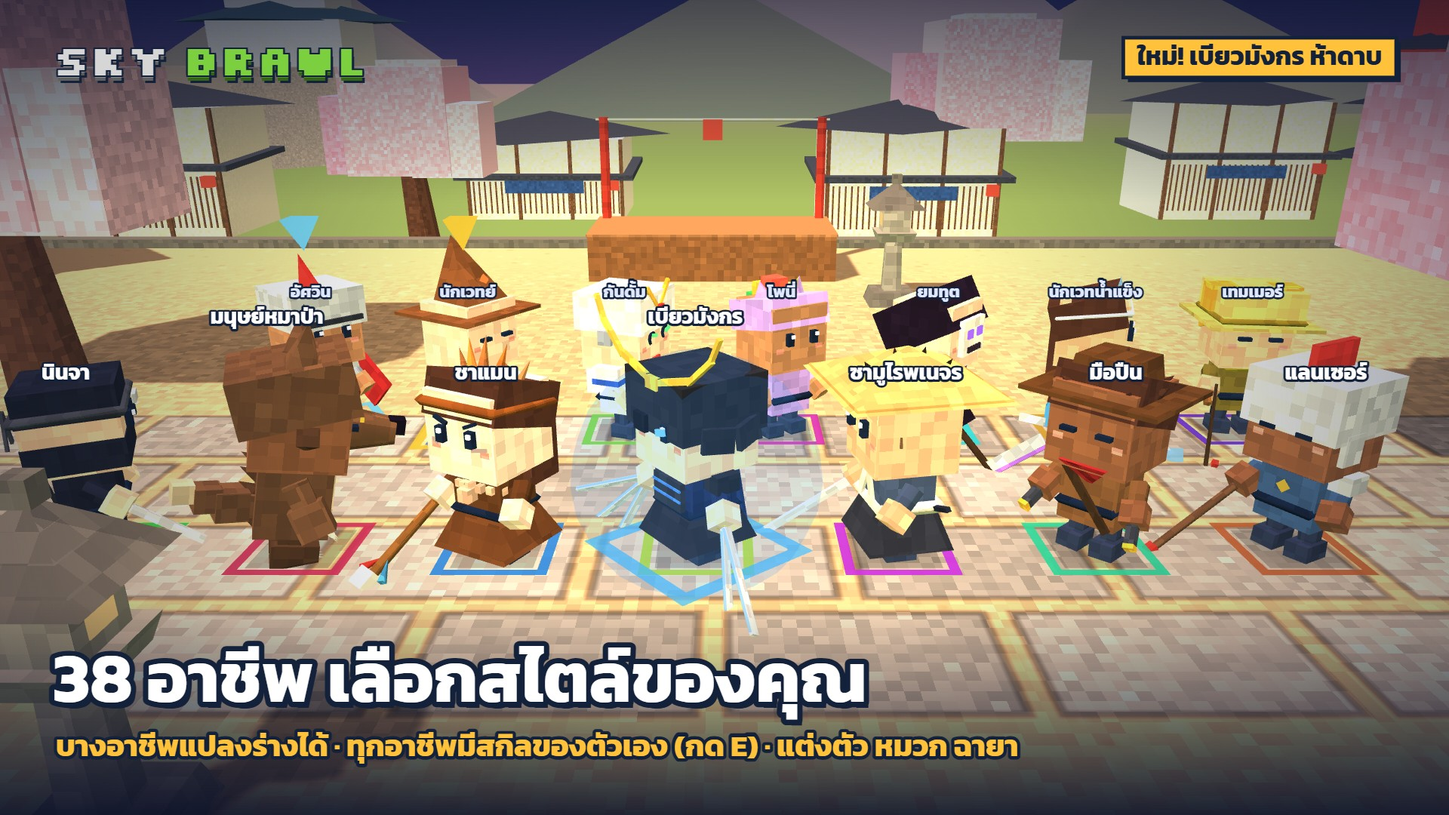
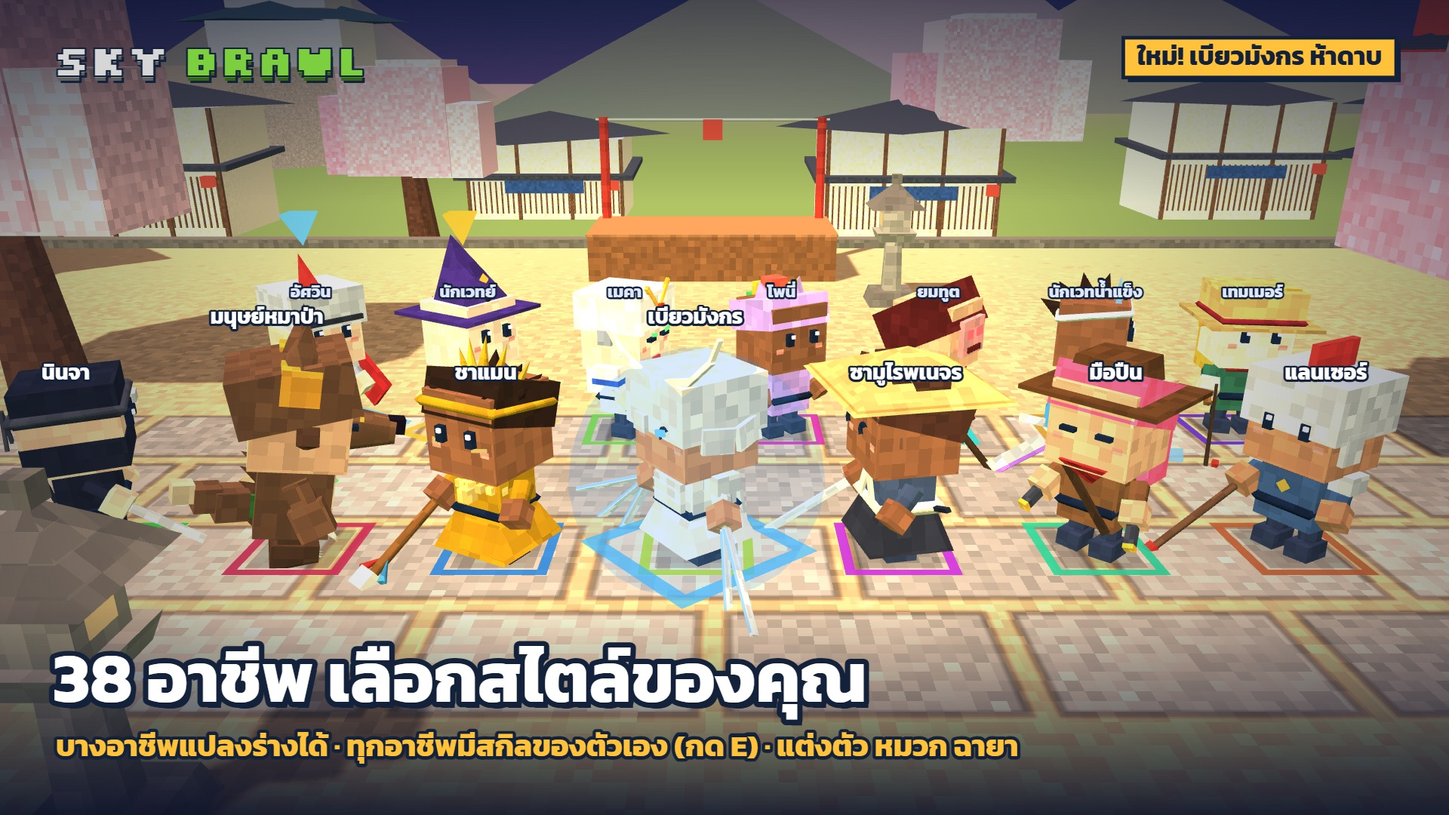
1.10.1: ข้อมูลลิขสิทธิ์และเครดิต + เปลี่ยนชื่ออาชีพกันดั้มเป็นเมคา

Changed region(s): [[0.1562, 0.2444, 0.9688, 0.825], [0.1875, 0.2444, 0.2188, 0.3056]]

diff --git a/index.html b/index.html
@@ -2,6 +2,7 @@
 <html lang="th">
 <head>
 <meta charset="utf-8">
+<meta name="copyright" content="© 2026 SORADAD. All rights reserved.">
 <meta name="viewport" content="width=device-width,initial-scale=1,maximum-scale=1,user-scalable=no,viewport-fit=cover">
 <meta name="theme-color" content="#5a8f3a">
 <meta name="description" content="Sky Brawl เกมต่อสู้ 3 มิติโลกบล็อกบนดาดฟ้าเรือไททานิก ตะลุมบอนกับบอทได้สูงสุด 124 คน หรือชวนเพื่อนเล่นออนไลน์ได้สูงสุด 64 คน">
@@ -21,7 +22,7 @@
 <link rel="preconnect" href="https://fonts.googleapis.com">
 <link rel="preconnect" href="https://fonts.gstatic.com" crossorigin>
 <link rel="stylesheet" href="https://fonts.googleapis.com/css2?family=Dela+Gothic+One&family=Kanit:wght@400;500;700&family=Silkscreen:wght@400;700&display=swap">
-<link rel="stylesheet" href="style.css?v=1.10.0">
+<link rel="stylesheet" href="style.css?v=1.10.1">
 
 </head>
 <body>
@@ -181,6 +182,13 @@
       </div>
       <p class="note" style="margin-top:10px">ปรับมุมกล้องด้วย <kbd>-</kbd> <kbd>=</kbd> ล้อเมาส์ หรือปุ่ม "กล้อง" ระหว่างเล่น · ถ้าเล่นคนเดียวหรือออนไลน์ ใช้ลูกศรกับ <kbd>J</kbd> <kbd>K</kbd> <kbd>L</kbd> <kbd>U</kbd> <kbd>I</kbd> <kbd>O</kbd> แทนได้ · <kbd>X</kbd> ดู hitbox · <kbd>T</kbd> ให้บอทเล่นแทนผู้เล่น 1 (ผู้เล่น 2 ใช้ <kbd>P</kbd> หรือ <kbd>Num5</kbd>) · <kbd>Esc</kbd> เมนู · มือถือใช้จอยกับปุ่มบนจอ</p>
     </details>
+    <details class="keys-d legal">
+      <summary>ลิขสิทธิ์และเครดิต</summary>
+      <p><b>Sky Brawl © 2026 SORADAD สงวนลิขสิทธิ์</b><br>เล่นฟรี แชร์ลิงก์ ถ่ายภาพ ทำคลิป สตรีมได้เลย · ห้ามคัดลอกไปเปิดเว็บเอง ดัดแปลงแล้วเผยแพร่ หรือใช้เชิงพาณิชย์โดยไม่ได้รับอนุญาต</p>
+      <p><b>ไลบรารีและฟอนต์:</b> three.js · PeerJS · qrcode-generator · supabase-js (MIT) · ฟอนต์ Kanit · Dela Gothic One · Silkscreen (SIL OFL 1.1) · เสียงและเพลงสร้างจากโค้ดทั้งหมด</p>
+      <p class="note">เกมแฟนเมดที่ได้แรงบันดาลใจจาก GetAmped และการ์ตูน/อนิเมะที่ผู้สร้างชอบ (เช่น วานรยักษ์ หุ่นยนต์ตาเดียวสีแดง) ไม่มีความเกี่ยวข้องหรือได้รับอนุญาตจากเจ้าของลิขสิทธิ์เหล่านั้น ชื่อและเครื่องหมายการค้าเป็นของเจ้าของแต่ละราย · เจ้าของลิขสิทธิ์ที่ต้องการให้แก้ไข แจ้งได้ที่ <a href="https://github.com/Sky-Brawl/sky-brawl.github.io/issues" target="_blank" rel="noopener">GitHub</a> · <a href="https://github.com/Sky-Brawl/sky-brawl.github.io/blob/main/LICENSE.md" target="_blank" rel="noopener">อ่านฉบับเต็ม</a></p>
+    </details>
+    <p class="copy">© 2026 SORADAD · Sky Brawl สงวนลิขสิทธิ์</p>
   </div>
 </div>
 
@@ -369,55 +377,55 @@
 <script src="https://cdnjs.cloudflare.com/ajax/libs/qrcode-generator/1.4.4/qrcode.min.js"></script>
 <script src="https://cdn.jsdelivr.net/npm/@supabase/supabase-js@2.45.4/dist/umd/supabase.min.js"></script>
 <!-- Settings you can tweak without touching this file: skill cooldowns/power, classes on/off -->
-<script src="config.js?v=1.10.0"></script>
+<script src="config.js?v=1.10.1"></script>
 <!-- The game: these files share one scope and must stay in this order (see js/README.md) -->
-<script src="js/voxel.js?v=1.10.0"></script>
-<script src="js/core.js?v=1.10.0"></script>
-<script src="js/moves.js?v=1.10.0"></script>
-<script src="js/world.js?v=1.10.0"></script>
-<script src="js/stages/temple-siam.js?v=1.10.0"></script>
-<script src="js/stages/gvg.js?v=1.10.0"></script>
-<script src="js/stages/halloween.js?v=1.10.0"></script>
-<script src="js/stages/christmas.js?v=1.10.0"></script>
-<script src="js/stages/ice.js?v=1.10.0"></script>
-<script src="js/stages/hospital.js?v=1.10.0"></script>
-<script src="js/stages/japan.js?v=1.10.0"></script>
-<script src="js/stages/skyisle.js?v=1.10.0"></script>
-<script src="js/stages/volcano.js?v=1.10.0"></script>
-<script src="js/stages/registry.js?v=1.10.0"></script>
-<script src="js/stages/cards.js?v=1.10.0"></script>
-<script src="js/classes.js?v=1.10.0"></script>
-<script src="js/config-apply.js?v=1.10.0"></script>
-<script src="js/looks.js?v=1.10.0"></script>
-<script src="js/forms.js?v=1.10.0"></script>
-<script src="js/summons.js?v=1.10.0"></script>
-<script src="js/fighter-model.js?v=1.10.0"></script>
-<script src="js/fx.js?v=1.10.0"></script>
-<script src="js/state.js?v=1.10.0"></script>
-<script src="js/input.js?v=1.10.0"></script>
-<script src="js/bots.js?v=1.10.0"></script>
-<script src="js/combat.js?v=1.10.0"></script>
-<script src="js/skills.js?v=1.10.0"></script>
-<script src="js/items.js?v=1.10.0"></script>
-<script src="js/projectiles.js?v=1.10.0"></script>
-<script src="js/powerups.js?v=1.10.0"></script>
-<script src="js/weapons.js?v=1.10.0"></script>
-<script src="js/modes.js?v=1.10.0"></script>
-<script src="js/sim.js?v=1.10.0"></script>
-<script src="js/render.js?v=1.10.0"></script>
-<script src="js/hud.js?v=1.10.0"></script>
-<script src="js/emotes.js?v=1.10.0"></script>
-<script src="js/chat.js?v=1.10.0"></script>
-<script src="js/chatbot.js?v=1.10.0"></script>
-<script src="js/flow.js?v=1.10.0"></script>
-<script src="js/online.js?v=1.10.0"></script>
-<script src="js/account.js?v=1.10.0"></script>
-<script src="js/relay.js?v=1.10.0"></script>
-<script src="js/online-ui.js?v=1.10.0"></script>
-<script src="js/customize.js?v=1.10.0"></script>
-<script src="js/tutorial.js?v=1.10.0"></script>
-<script src="js/settings.js?v=1.10.0"></script>
-<script src="js/touch.js?v=1.10.0"></script>
-<script src="js/main.js?v=1.10.0"></script>
+<script src="js/voxel.js?v=1.10.1"></script>
+<script src="js/core.js?v=1.10.1"></script>
+<script src="js/moves.js?v=1.10.1"></script>
+<script src="js/world.js?v=1.10.1"></script>
+<script src="js/stages/temple-siam.js?v=1.10.1"></script>
+<script src="js/stages/gvg.js?v=1.10.1"></script>
+<script src="js/stages/halloween.js?v=1.10.1"></script>
+<script src="js/stages/christmas.js?v=1.10.1"></script>
+<script src="js/stages/ice.js?v=1.10.1"></script>
+<script src="js/stages/hospital.js?v=1.10.1"></script>
+<script src="js/stages/japan.js?v=1.10.1"></script>
+<script src="js/stages/skyisle.js?v=1.10.1"></script>
+<script src="js/stages/volcano.js?v=1.10.1"></script>
+<script src="js/stages/registry.js?v=1.10.1"></script>
+<script src="js/stages/cards.js?v=1.10.1"></script>
+<script src="js/classes.js?v=1.10.1"></script>
+<script src="js/config-apply.js?v=1.10.1"></script>
+<script src="js/looks.js?v=1.10.1"></script>
+<script src="js/forms.js?v=1.10.1"></script>
+<script src="js/summons.js?v=1.10.1"></script>
+<script src="js/fighter-model.js?v=1.10.1"></script>
+<script src="js/fx.js?v=1.10.1"></script>
+<script src="js/state.js?v=1.10.1"></script>
+<script src="js/input.js?v=1.10.1"></script>
+<script src="js/bots.js?v=1.10.1"></script>
+<script src="js/combat.js?v=1.10.1"></script>
+<script src="js/skills.js?v=1.10.1"></script>
+<script src="js/items.js?v=1.10.1"></script>
+<script src="js/projectiles.js?v=1.10.1"></script>
+<script src="js/powerups.js?v=1.10.1"></script>
+<script src="js/weapons.js?v=1.10.1"></script>
+<script src="js/modes.js?v=1.10.1"></script>
+<script src="js/sim.js?v=1.10.1"></script>
+<script src="js/render.js?v=1.10.1"></script>
+<script src="js/hud.js?v=1.10.1"></script>
+<script src="js/emotes.js?v=1.10.1"></script>
+<script src="js/chat.js?v=1.10.1"></script>
+<script src="js/chatbot.js?v=1.10.1"></script>
+<script src="js/flow.js?v=1.10.1"></script>
+<script src="js/online.js?v=1.10.1"></script>
+<script src="js/account.js?v=1.10.1"></script>
+<script src="js/relay.js?v=1.10.1"></script>
+<script src="js/online-ui.js?v=1.10.1"></script>
+<script src="js/customize.js?v=1.10.1"></script>
+<script src="js/tutorial.js?v=1.10.1"></script>
+<script src="js/settings.js?v=1.10.1"></script>
+<script src="js/touch.js?v=1.10.1"></script>
+<script src="js/main.js?v=1.10.1"></script>
 </body>
 </html>

diff --git a/style.css b/style.css
@@ -397,3 +397,8 @@ body *{touch-action:manipulation}
 #mChatBar[hidden]{display:none}
 #mChatBar input{flex:1 1 auto;min-width:0;font:500 16px var(--body);padding:6px 8px;border:2px solid var(--ink);border-radius:8px}
 @media (max-height:520px){ .nico{font-size:16px;-webkit-text-stroke:3px var(--ink)} .nico .nn{font-size:11px} #mChatBar{bottom:auto;top:calc(env(safe-area-inset-top,0px) + 44px)} }
+
+/* Copyright & credits in the menu */
+details.legal p{margin:8px 0 0;font-size:13px;line-height:1.5}
+details.legal a{color:inherit;text-decoration:underline}
+#menu .copy{margin:10px 0 0;font-size:12px;opacity:.7;text-align:center}

diff --git a/LICENSE.md b/LICENSE.md
@@ -1,0 +1,51 @@
+# ลิขสิทธิ์ · Copyright
+
+**Sky Brawl © 2026 SORADAD สงวนลิขสิทธิ์ (All rights reserved)**
+
+โค้ด ภาพ โมเดลตัวละคร ด่าน เสียง ข้อความ และไฟล์ทั้งหมดในโปรเจกต์นี้เป็นของ SORADAD ยกเว้นไลบรารีและฟอนต์ของบุคคลอื่นที่ระบุไว้ด้านล่าง
+
+## ทำได้ ✅
+
+- เล่นเกมฟรีที่ https://sky-brawl.github.io/
+- เปิดดูและศึกษาโค้ดบน GitHub
+- แชร์ลิงก์เกม ถ่ายภาพหน้าจอ ทำคลิป สตรีม หรือรีวิวเกม (ขอบคุณมากถ้าใส่ลิงก์เกมไว้ด้วย)
+- ส่ง Issue หรือ Pull Request เพื่อเสนอแก้ไขหรือเพิ่มอาชีพ (ส่วนที่ส่งมาให้ใช้ภายใต้ลิขสิทธิ์เดียวกับเกม)
+
+## ห้ามทำ ถ้ายังไม่ได้รับอนุญาตเป็นลายลักษณ์อักษร ❌
+
+- คัดลอกเกมไปเปิดเว็บเอง หรือนำไปเผยแพร่ซ้ำทั้งหมดหรือบางส่วน
+- ดัดแปลงแล้วนำไปเผยแพร่เป็นเกมของตัวเอง
+- นำโค้ด ภาพ หรือตัวละครไปใช้ในเชิงพาณิชย์ หรือขาย
+- อ้างว่าเป็นผู้สร้างเกมนี้
+
+ติดต่อขออนุญาตได้ทาง GitHub: https://github.com/Sky-Brawl/sky-brawl.github.io/issues
+
+## ไลบรารีและฟอนต์ของบุคคลอื่น
+
+ส่วนเหล่านี้ไม่ใช่ของ SORADAD และใช้ตามสัญญาอนุญาตของเจ้าของแต่ละราย
+
+| ชื่อ | ใช้ทำอะไร | สัญญาอนุญาต |
+|---|---|---|
+| [three.js](https://github.com/mrdoob/three.js) r128 © three.js authors | กราฟิก 3 มิติ | MIT |
+| [PeerJS](https://github.com/peers/peerjs) 1.5.4 © Michelle Bu, Eric Zhang และผู้ร่วมพัฒนา | ออนไลน์แบบ peer-to-peer | MIT |
+| [qrcode-generator](https://github.com/kazuhikoarase/qrcode-generator) 1.4.4 © Kazuhiko Arase | QR code ชวนเพื่อน | MIT |
+| [supabase-js](https://github.com/supabase/supabase-js) 2.45.4 © Supabase | บัญชี เลเวล รางวัลรายวัน | MIT |
+| ฟอนต์ [Kanit](https://fonts.google.com/specimen/Kanit) © Cadson Demak | ตัวอักษรไทย | SIL Open Font License 1.1 |
+| ฟอนต์ [Dela Gothic One](https://fonts.google.com/specimen/Dela+Gothic+One) © artakana | หัวข้อ | SIL Open Font License 1.1 |
+| ฟอนต์ [Silkscreen](https://fonts.google.com/specimen/Silkscreen) © Jason Kottke | โลโก้ตัวพิกเซล | SIL Open Font License 1.1 |
+
+เสียงประกอบและเพลงในเกมสร้างจากโค้ด (Web Audio) ทั้งหมด ไม่ได้ใช้ไฟล์เสียงของคนอื่น
+
+## เกี่ยวกับแรงบันดาลใจ
+
+Sky Brawl เป็นเกมแฟนเมดที่ได้แรงบันดาลใจจากเกมต่อสู้ออนไลน์ยุคเก่าอย่าง GetAmped และจากการ์ตูน อนิเมะ และเกมที่ผู้สร้างชอบ บางตัวละครและไอเทมเป็นการแสดงความเคารพ (homage) ต่อผลงานเหล่านั้น เช่น ร่างวานรยักษ์ และหุ่นยนต์ตาเดียวสีแดง โดยวาดขึ้นใหม่ทั้งหมดในสไตล์บล็อกของเกมนี้
+
+Sky Brawl **ไม่มีความเกี่ยวข้อง ไม่ได้รับการสนับสนุน และไม่ได้รับอนุญาตอย่างเป็นทางการ** จาก CyberStep, Bandai Namco, Sunrise, Toei Animation, Shueisha, Bird Studio หรือเจ้าของลิขสิทธิ์รายอื่น ชื่อและเครื่องหมายการค้าทั้งหมดเป็นของเจ้าของแต่ละราย
+
+ชื่อ LINE, Facebook, X และ Google ในปุ่มแชร์และปุ่มเข้าสู่ระบบเป็นเครื่องหมายการค้าของบริษัทเจ้าของ
+
+หากคุณเป็นเจ้าของลิขสิทธิ์และต้องการให้แก้ไขหรือนำส่วนใดออก กรุณาแจ้งทาง [GitHub Issues](https://github.com/Sky-Brawl/sky-brawl.github.io/issues) ผู้สร้างยินดีแก้ไขโดยเร็ว
+
+---
+
+*English summary:* Sky Brawl © 2026 SORADAD. All rights reserved. You may play the game, read the source, and share links, screenshots, videos and streams. You may not copy, re-host, redistribute, modify for publication, or use any part commercially without written permission. Third-party libraries (three.js, PeerJS, qrcode-generator, supabase-js — MIT) and fonts (Kanit, Dela Gothic One, Silkscreen — SIL OFL 1.1) belong to their authors. Sky Brawl is a fan-made game and is not affiliated with or endorsed by CyberStep, Bandai Namco, Sunrise, Toei Animation, Shueisha, Bird Studio or any other rights holder; all trademarks belong to their owners.

diff --git a/HANDOFF.md b/HANDOFF.md
@@ -183,7 +183,7 @@ python -m http.server 8765 --directory sky-brawl
 - **การต่อเข้าห้อง:** ลองต่อตรง (WebRTC) ก่อน ถ้าไม่ติดใน 12 วินาที จะสลับไปส่งข้อมูลผ่าน Supabase Realtime เอง (`Relay` / `RelayConn` ใน index.html, ช่อง `sbr-<รหัสห้อง>` และ `sbr-<รหัสห้อง>-<id ผู้เล่น>`) ผู้เล่นทางนี้ได้ภาพ 10 ครั้ง/วินาที ใช้ราว 35 ข้อความ/วินาที แพ็กฟรีได้ 100 ข้อความ/วินาทีทั้งโปรเจกต์ และ 2 ล้านข้อความ/เดือน จึงจำกัดไว้ 3 คนต่อห้อง (`config.js` → `network.relayMax`, `supaRelay`)
 - **TURN relay:** ไม่มี TURN สาธารณะในโค้ดแล้ว (บัญชี Open Relay แบบแชร์ใช้ไม่ได้แล้ว) ใส่ของตัวเองได้ใน `config.js` → `network.rmsKey` (คีย์ pk_live ของ Metered) / `turnApi` / `iceServers`
 - **ยังไม่มีตัวกรองคำหยาบ / ปุ่มรายงาน** ทั้งชื่อและแชต
-- **ชื่อ "กันดั้ม" / "โพนี่"** เป็นเครื่องหมายการค้าของบริษัทอื่น — ถ้าเกมเริ่มดังหรือหารายได้ ควรเปลี่ยนชื่อ/ดีไซน์
+- **ชื่อ "โพนี่"** เป็นคำทั่วไปแต่ใกล้แบรนด์ดัง — ถ้าเกมเริ่มหารายได้ ควรเลี่ยงดีไซน์ที่คล้ายของจริง · อาชีพ "กันดั้ม" เปลี่ยนชื่อเป็น "เมคา" แล้วใน 1.10.1 (รหัสยังเป็น `gundam` เซฟเดิมใช้ได้)
 - หน้าล็อกอิน Google แสดงโดเมน `…supabase.co` (ถ้าอยากให้ขึ้นชื่อเว็บต้องใช้ custom domain แบบเสียเงิน)
 - ข้อมูลทดสอบที่อาจค้างใน Supabase: บัญชี "HostTest" ในตารางอันดับ (id `2eeee655-d003-4131-92ac-6df943187d27`) และข้อความทดสอบในแชต ลบได้ใน SQL Editor
 
@@ -397,3 +397,7 @@ python -m http.server 8765 --directory sky-brawl
 - บอท: เห็นหุ่นว่างในระยะ 12 เดินไปขึ้น, ใช้ E ตอนเป้าใกล้ 9, ระยะตี 3.2, ไม่กด grab ระหว่างขี่ (จะได้ไม่ลง), เดินเก็บยาเอง
 - ออนไลน์: flag 256 ใน f[11] = เป็นวานร · `sn.mc = [[id, x, y, z, facing, hp, riderIdx]]` → `mechsFromSnap` สร้าง/ลบหุ่น ตั้ง `f.mech` ฝั่ง guest และโชว์ดาเมจหุ่น
 - ทดสอบ: ออฟไลน์กดเอง (ยา→คอมโบ ape1→2→3, หุ่น ขึ้น/ฟัน mk1→2/ปืนกล 9 นัด/โดนระเบิดหักเลือดหุ่นไม่หักคน/ลง/ขึ้นใหม่/พังแล้วคนกระเด็น) · บอท 8 ตัว 2 ด่าน 4 นาที: แปลงวานร 3, ขึ้นหุ่น 3, หุ่นพัง 2 ไม่มี error · encode snapshot แล้ว decode แบบ guest ได้หุ่น+คนขี่+เลือด+วานรถูก · `?v=1.10.0`
+
+## ลิขสิทธิ์ (1.10.1 · 2026-10-16)
+- เจ้าของเลือก "สงวนลิขสิทธิ์ทั้งหมด" ชื่อ SORADAD · `LICENSE.md` (ไทย + สรุปอังกฤษ) · เมนูหลัก `details.legal` + `#menu .copy` · `<meta name="copyright">` · README หัวข้อ 📜 + บรรทัดท้าย
+- ถ้าเพิ่มไลบรารี/ฟอนต์ใหม่ ให้เพิ่มในตารางของ `LICENSE.md` และบรรทัดในเมนูด้วย

diff --git a/README.md b/README.md
@@ -312,10 +312,10 @@
 </td>
 </tr>
 <tr>
-<td width="260"><img src="media/classes/gundam.gif" width="260" alt="กันดั้ม"></td>
+<td width="260"><img src="media/classes/gundam.gif" width="260" alt="เมคา"></td>
 <td>
 
-**กันดั้ม** · ระยะไกล · ความยาก ★★☆
+**เมคา** · ระยะไกล · ความยาก ★★☆
 
 🌀 **สกิล E:** ยิงบีมยักษ์ทะลุทุกคนในแนวยิง ไกล 12 ช่อง<br>
 👍 บีมแรงและไกล โดนหลายคนพร้อมกัน<br>
@@ -637,6 +637,19 @@
 
 ---
 
+## 📜 ลิขสิทธิ์
+
+**Sky Brawl © 2026 SORADAD สงวนลิขสิทธิ์ (All rights reserved)**
+
+- ✅ เล่นฟรี ดูโค้ด แชร์ลิงก์ ถ่ายภาพ ทำคลิป สตรีม รีวิว ได้เลย
+- ❌ ห้ามคัดลอกไปเปิดเว็บเอง ดัดแปลงแล้วเผยแพร่ หรือใช้เชิงพาณิชย์ โดยไม่ได้รับอนุญาต
+- ไลบรารี three.js, PeerJS, qrcode-generator, supabase-js (MIT) และฟอนต์ Kanit, Dela Gothic One, Silkscreen (SIL OFL 1.1) เป็นของเจ้าของแต่ละราย
+- เกมแฟนเมดที่ได้แรงบันดาลใจจาก GetAmped และการ์ตูน/อนิเมะ ไม่มีความเกี่ยวข้องกับเจ้าของลิขสิทธิ์เหล่านั้น
+
+อ่านฉบับเต็มที่ [LICENSE.md](LICENSE.md)
+
+---
+
 ## 🛠 สำหรับนักพัฒนา
 
 เกมเป็นเว็บธรรมดา ไม่มีขั้นตอน build · ตั้งแต่ 1.6.0 โค้ดแยกเป็นไฟล์ย่อยตามหัวข้อในโฟลเดอร์ `js/` ดูว่าไฟล์ไหนทำอะไรได้ที่ [`js/README.md`](js/README.md)
@@ -655,6 +668,7 @@
 | `templates/` | แบบฟอร์มเสนออาชีพใหม่ + ตัวอย่าง + ฟอร์ม GitHub Issue |
 | `DEVLOG.md` | บันทึกการเปลี่ยนแปลงแต่ละเวอร์ชัน |
 | `promo/` | ภาพและวิดีโอโปรโมต |
+| `LICENSE.md` | ลิขสิทธิ์ เครดิตไลบรารีและฟอนต์ |
 | `media/classes/` | GIF ท่าของแต่ละอาชีพ (ใช้ใน README) |
 
 **เทคโนโลยี:** [Three.js r128](https://threejs.org/) (กราฟิก) · [PeerJS](https://peerjs.com/) (ออนไลน์แบบ host คำนวณเกม) · [Supabase](https://supabase.com/) (บัญชี ล็อบบี้ แชต เลเวล รางวัลรายวัน) · Web Audio (เสียงสังเคราะห์ทั้งหมด ไม่มีไฟล์เสียง)
@@ -682,3 +696,7 @@ python -m http.server 8000
 `#SkyBrawl` `#เกมออนไลน์` `#เกมฟรี` `#เกมมือถือ`
 
 </div>
+
+---
+
+<sub>© 2026 SORADAD · Sky Brawl สงวนลิขสิทธิ์</sub>

diff --git a/DEVLOG.md b/DEVLOG.md
@@ -1,6 +1,6 @@
 # Sky Brawl — Dev Log / Changelog
 
-> **เวอร์ชันปัจจุบัน: 1.10.0** · อัปเดตล่าสุด: 15 ต.ค. 2026
+> **เวอร์ชันปัจจุบัน: 1.10.1** · อัปเดตล่าสุด: 15 ต.ค. 2026
 > ไฟล์นี้คือที่เดียวที่เก็บเลขเวอร์ชัน (ยังไม่มีค่าเวอร์ชันในโค้ดเกม) · ภาพรวมระบบ/วิธีทำงานต่อ ดู [`HANDOFF.md`](HANDOFF.md)
 
 ---
@@ -26,7 +26,8 @@
 
 | เวอร์ชัน | วันที่ | commit | สรุป |
 |---|---|---|---|
-| **1.10.0** | 16 ต.ค. 2026 | — | ยาวานรยักษ์ (แปลงร่างกอริลล่ายักษ์) + หุ่นรบแดงขึ้นขี่ได้ |
+| **1.10.1** | 16 ต.ค. 2026 | — | ข้อมูลลิขสิทธิ์และเครดิต (เมนู, README, LICENSE.md) · อาชีพ "กันดั้ม" เปลี่ยนชื่อเป็น "เมคา" |
+| 1.10.0 | 16 ต.ค. 2026 | — | ยาวานรยักษ์ (แปลงร่างกอริลล่ายักษ์) + หุ่นรบแดงขึ้นขี่ได้ |
 | 1.9.2 | 16 ต.ค. 2026 | — | ท้าบอท 1v1 แล้วบอทตามมาสู้จริงจนจบ ไม่เปลี่ยนเป้ากลางทาง |
 | 1.9.1 | 16 ต.ค. 2026 | — | บอทพูดได้หลากหลายขึ้นมาก และคุยโต้ตอบกับผู้เล่น |
 | 1.9.0 | 15 ต.ค. 2026 | — | แชทวิ่งบนจอแบบ Niconico ระหว่างต่อสู้ + บอทพิมพ์แชทและตอบแชทเรา |
@@ -50,6 +51,11 @@
 ---
 
 ## บันทึกแต่ละรอบ
+
+### 1.10.1 — ลิขสิทธิ์และเครดิต
+- เมนูหลักมีหัวข้อ "ลิขสิทธิ์และเครดิต" และบรรทัด © 2026 SORADAD
+- อาชีพ "กันดั้ม" เปลี่ยนชื่อเป็น "เมคา" (ท่าและหน้าตาเหมือนเดิม เซฟเดิมใช้ได้)
+- ไฟล์ใหม่ `LICENSE.md`: สงวนลิขสิทธิ์ อะไรทำได้/ห้ามทำ เครดิตไลบรารีและฟอนต์ และข้อความว่าเป็นเกมแฟนเมด
 
 ### 1.10.0 — ยาวานรยักษ์ + หุ่นรบแดง
 - ไอเทมใหม่ 🧪 ยาวานรยักษ์: เดินทับแล้วกลายเป็นกอริลล่ายักษ์ 10 วิ ตัวใหญ่ ทุบแรง โดนตีไม่สะดุ้ง กด E พ่นลำแสงจากปาก

diff --git a/promo/captions.md b/promo/captions.md
@@ -92,5 +92,5 @@ https://sky-brawl.github.io/
 > ▶ https://sky-brawl.github.io/
 
 **sky-brawl-4-classes.jpg**
-> 🧙 38 อาชีพ เลือกสไตล์ของคุณ อัศวิน นินจา มนุษย์หมาป่า ยมทูต กันดั้ม โพนี่ และใหม่ล่าสุด **เบียวมังกร** นักดาบห้าเล่มออร่าฟ้า
+> 🧙 38 อาชีพ เลือกสไตล์ของคุณ อัศวิน นินจา มนุษย์หมาป่า ยมทูต เมคา โพนี่ และใหม่ล่าสุด **เบียวมังกร** นักดาบห้าเล่มออร่าฟ้า
 > ดูท่าของทุกอาชีพแบบ GIF ได้ที่ https://github.com/Sky-Brawl/sky-brawl.github.io
